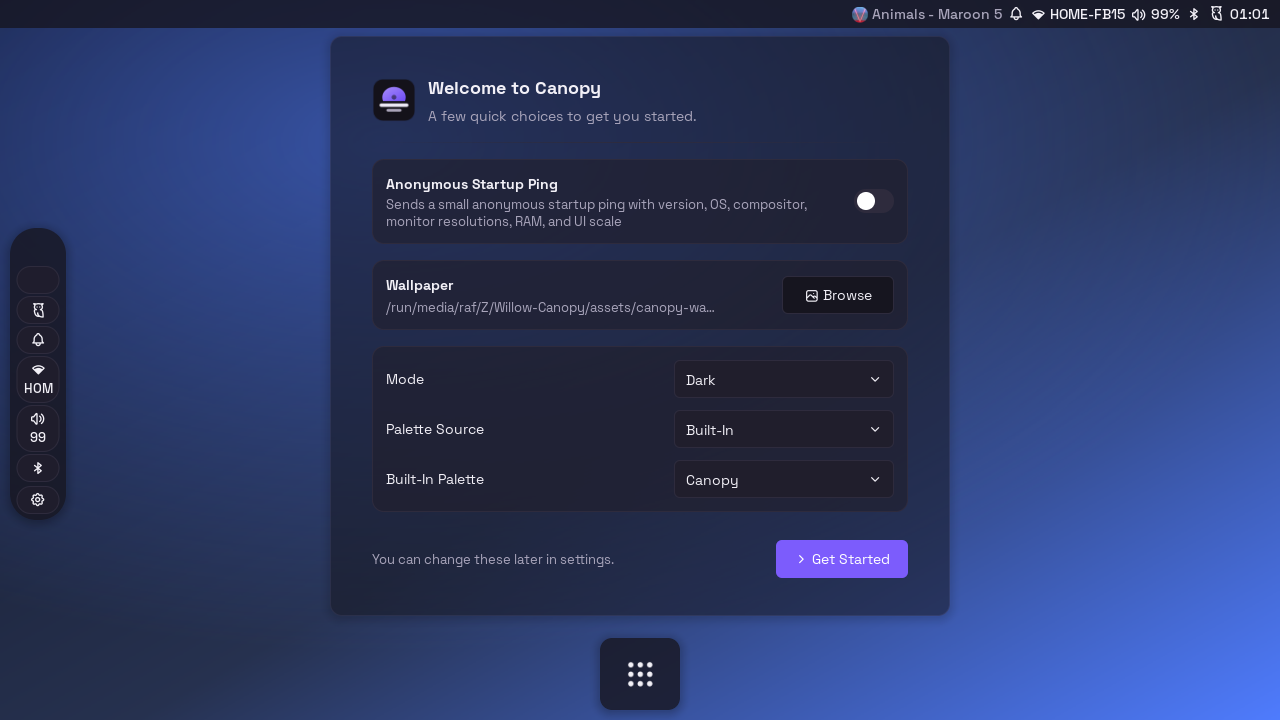
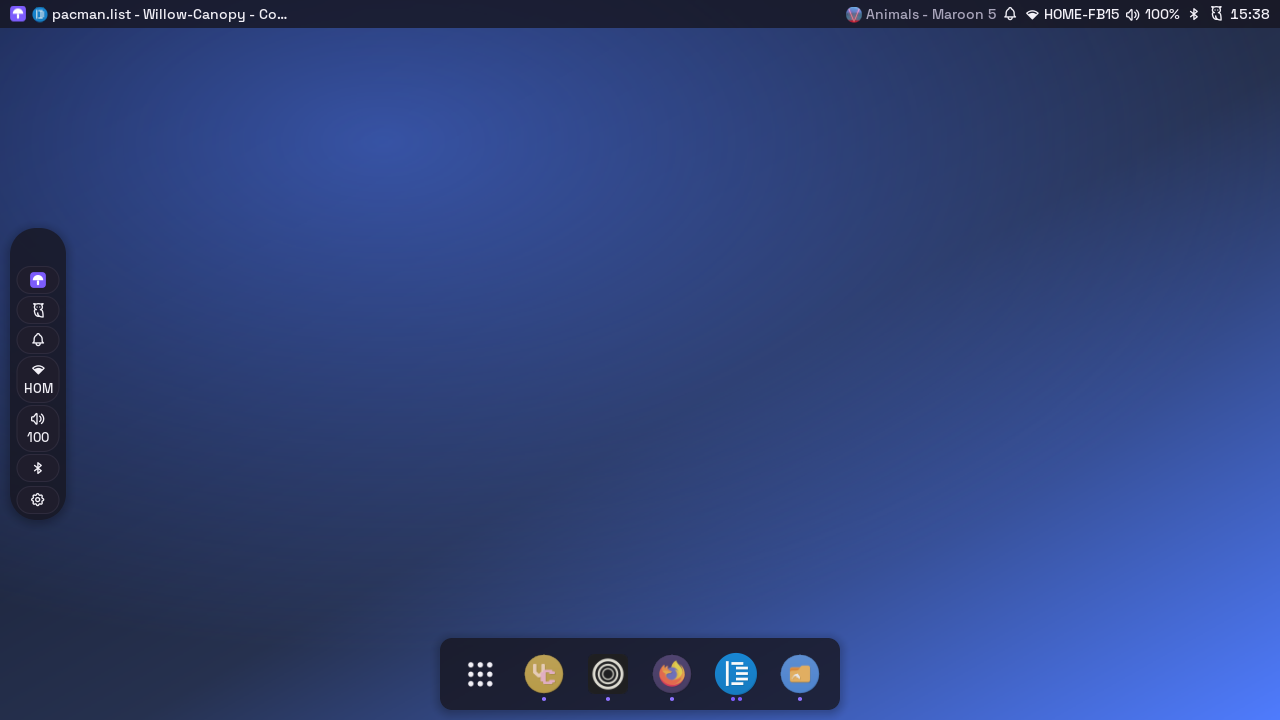
Explain palette precedence; warn when the UI overlay overrides Canopy

diff --git a/docs/CANOPY_DESIGN.md b/docs/CANOPY_DESIGN.md
@@ -50,6 +50,29 @@ cannot disagree.
 `scripts/install.sh` seeds the file from `config/canopy/config.toml` only when
 one does not already exist.
 
+### Precedence (why the palette can look "stock")
+
+There are two stores, and they are not the same file:
+
+| Store | Path | Written by |
+| --- | --- | --- |
+| Declarative config | `~/.config/canopy/config.toml` | you, the installer, `canopy msg config-set` on first use |
+| App overlay | `~/.local/state/canopy/settings.toml` | the Settings UI and the scheme/wallpaper pickers |
+
+**The overlay wins.** Picking a colour scheme in the UI writes
+`[theme] builtin = "<scheme>"` there, which then overrides
+`theme.builtin = "Canopy"` in the config file — so the desktop keeps looking like
+that scheme even after the config is refreshed. That is intended (a UI choice
+must stick), but it is why a desktop can suddenly look like stock Noctalia.
+
+Reset it with either:
+
+```sh
+canopy msg config-set theme.builtin Canopy     # while the shell is running
+# or
+rm ~/.local/state/canopy/settings.toml         # next start re-reads the config
+```
+
 ## Labwc integration
 
 | Need | Mechanism |
